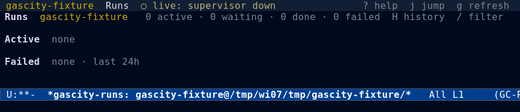
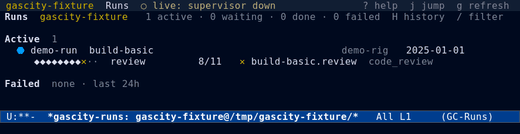
docs(screenshots): capture the run detail from a seeded run graph (ga-fb9bg)
Run-view-v2 §4 (REQ-012): the manual's Run Detail node now embeds a
run-detail screenshot, taken from a deterministic fixture run graph
rather than a live store.  gascity-fixture.sh seeds one in-progress
build-basic run (demo-run plus role-addressed step beads) whose review
loop's first iteration is closed failed, so the Runs view has a real
Active card and the run detail shows the stage groups with the failed
stage and the step inspector (I/! rendered by gascity-run-diagnose).
The shot, manifest and VIEW_SOURCES entries are added, and the fixture
README's stale 'runs excluded' row plus the dropped-view note are
reconciled: session-list/agents render their honest offline state,
run-detail is captured, and agent-detail/mail-thread remain dropped.
--verify runs,run-detail is byte-identical twice; scripts/gate.sh PASS
(926/926, compile clean, doc drift green) and scripts/lint.sh PASS.

diff --git a/doc/screenshots/fixtures/README.md b/doc/screenshots/fixtures/README.md
@@ -84,37 +84,56 @@ Never seeded, never touched: the repository `.beads/`, `~/emacs-city`,
 | `mail-inbox` | a `demo-mail-thread` message bead | `bd import` |
 | `convoy-list`, `dolt-list` | one bounded page from the seeded store | `bd import` |
 | `bookmarks` | two gascity bookmarks set in-session | the shot list, not the fixture |
-| `session-list`, `agents`, `runs` | *excluded* — see below | — |
+| `runs`, `run-detail` | one active `build-basic` run (`demo-run` root, 12 role-addressed graph beads; the review loop's iteration 1 is closed failed) | `bd import` |
+| `session-list` | no live controller: the sessions table renders its honest empty state | `gc init --no-start` |
+| `agents` | the config-derived agents, all `stopped` (no controller) | the city's agent config |
 
 Beads are role-addressed: every id is `demo-<role>` (`demo-epic-manual`,
-`demo-task-fixture`, `demo-bug-render`, `demo-mail-thread`, ...), with labels,
-statuses, `blocks` and `parent-child` dependencies, and comments. No literal
-run-generated id is ever written, so `--verify` can assert the ids are roles.
+`demo-task-fixture`, `demo-bug-render`, `demo-mail-thread`, `demo-run`, and
+`demo-prep`/`demo-reqs`/... for the run's steps), with labels, statuses,
+`blocks` and `parent-child` dependencies, comments, and (for the run graph)
+`gc.*` metadata. No literal run-generated id is ever written, so `--verify`
+can assert the ids are roles.
 
 ## Exclusions and risks (no silent fake)
 
 The plan's "no silent fake" rule: anything the fixture cannot produce from
 offline `gc`/`bd` commands is excluded with a reason rather than synthesized.
 
-- **Sessions, agents, runs** need a running controller (`gc session list`,
-  `gc runs`). The fixture deliberately runs `gc init --no-start` with no live
-  provider, so these stores are empty. The `session-list`, `agents` and `runs`
-  views still render their honest empty/degraded states; `agent-detail` and
-  `run-detail` error with nothing to act on, so they are **not in the capture
-  manifest** (see below). If a future view needs real data, seed sessions from
-  a deterministic `gc agent-script` run (see `examples/lifecycle`) and record
-  the added controller cost here. The cockpit, by contrast, still renders its
-  config-derived sections and shows its degraded (`controller down`) state —
-  a real state, not a fake.
+- **Sessions** need a running controller (`gc session list`). The fixture
+  deliberately runs `gc init --no-start` with no live provider, so the store
+  is empty and `session-list` renders its honest empty state. `agent-detail`
+  needs a session and is therefore **not in the capture manifest** (see
+  below). If a future view needs a live session, seed one from a
+  deterministic `gc agent-script` run (see `examples/lifecycle`) and record
+  the added controller cost here. The cockpit and Agents still render their
+  config-derived sections and show their degraded (`controller down`,
+  `stopped`) state — a real state, not a fake.
+- **Runs and run-detail** need no controller: the fixture seeds one
+  `build-basic` workflow graph with `bd import` (above), so both views render
+  real store data. The run is `in_progress`, which keeps it in the Runs
+  view's Active section (the Failed section only looks back 24h, and every
+  fixture timestamp is pinned to 2025-01-01), and its review loop's failed
+  iteration gives the run detail a failed stage and an inspector failure.
+  With no session, the inspector honestly reads `no session`.
+- **Events over the API.** Every `gc` call in the capture inherits the
+  fixture `GC_HOME`, and `gc events` then resolves through the supervisor API,
+  which does not exist for this city: it fails with
+  `could not auto-discover the supervisor API`. The cockpit's Activity
+  section and the run detail's inspector show that honest
+  `events unavailable` state rather than a fabricated empty log; the local
+  `.gc/events.jsonl` still feeds the Events view, which does not need the
+  API.
 - **Mail** is seeded as a message bead, but `gc mail inbox` resolves the
   *current agent's* session, which does not exist without a controller, so the
   live `mail-thread` view is not in the capture manifest. The bead stays as
   fixture data for a future session-backed capture.
-- **Dropped views (`agent-detail`, `run-detail`, `mail-thread`).** These three
-  cannot be produced from the offline fixture (above), so they were removed
-  from the capture manifest and the manual rather than shipping their
-  pre-workflow live-store captures. Regenerate and re-add them here once a
-  deterministic controller seed exists.
+- **Dropped views (`agent-detail`, `mail-thread`).** These two need a live
+  session (above) and cannot be produced from the offline fixture, so they
+  remain out of the capture manifest and the manual rather than shipping
+  their pre-workflow live-store captures. Regenerate and re-add them here
+  once a deterministic controller seed exists. `run-detail` is captured: the
+  seeded run graph gives it real, deterministic data.
 - **Bookmarks** are Emacs-side (`gascity-bookmark.el`), not a `gc` store, so
   the fixture cannot write them; the shot list sets two real gascity
   bookmarks in-session (`bookmark-default-file` pointed at a throwaway path)

diff --git a/doc/screenshots/README.md b/doc/screenshots/README.md
@@ -165,7 +165,7 @@ The capture **manifest** — which views are shot in which theme — is a
 short here-doc near the top of `capture.sh`:
 
 ```
-ef-deuteranopia-dark  -dark   cockpit dispatch agents runs events health rig-dashboard session-list convoy-list dolt-list lighter costs bookmarks mail-inbox cities rig-list order-list remote-cities terminal-attach sling-plain sling-cold sling-formula sling-on sling-preview
+ef-deuteranopia-dark  -dark   cockpit dispatch agents runs run-detail events health rig-dashboard session-list convoy-list dolt-list lighter costs bookmarks mail-inbox cities rig-list order-list remote-cities terminal-attach sling-plain sling-cold sling-formula sling-on sling-preview
 ef-cyprus             -light  cockpit
 ```
 
